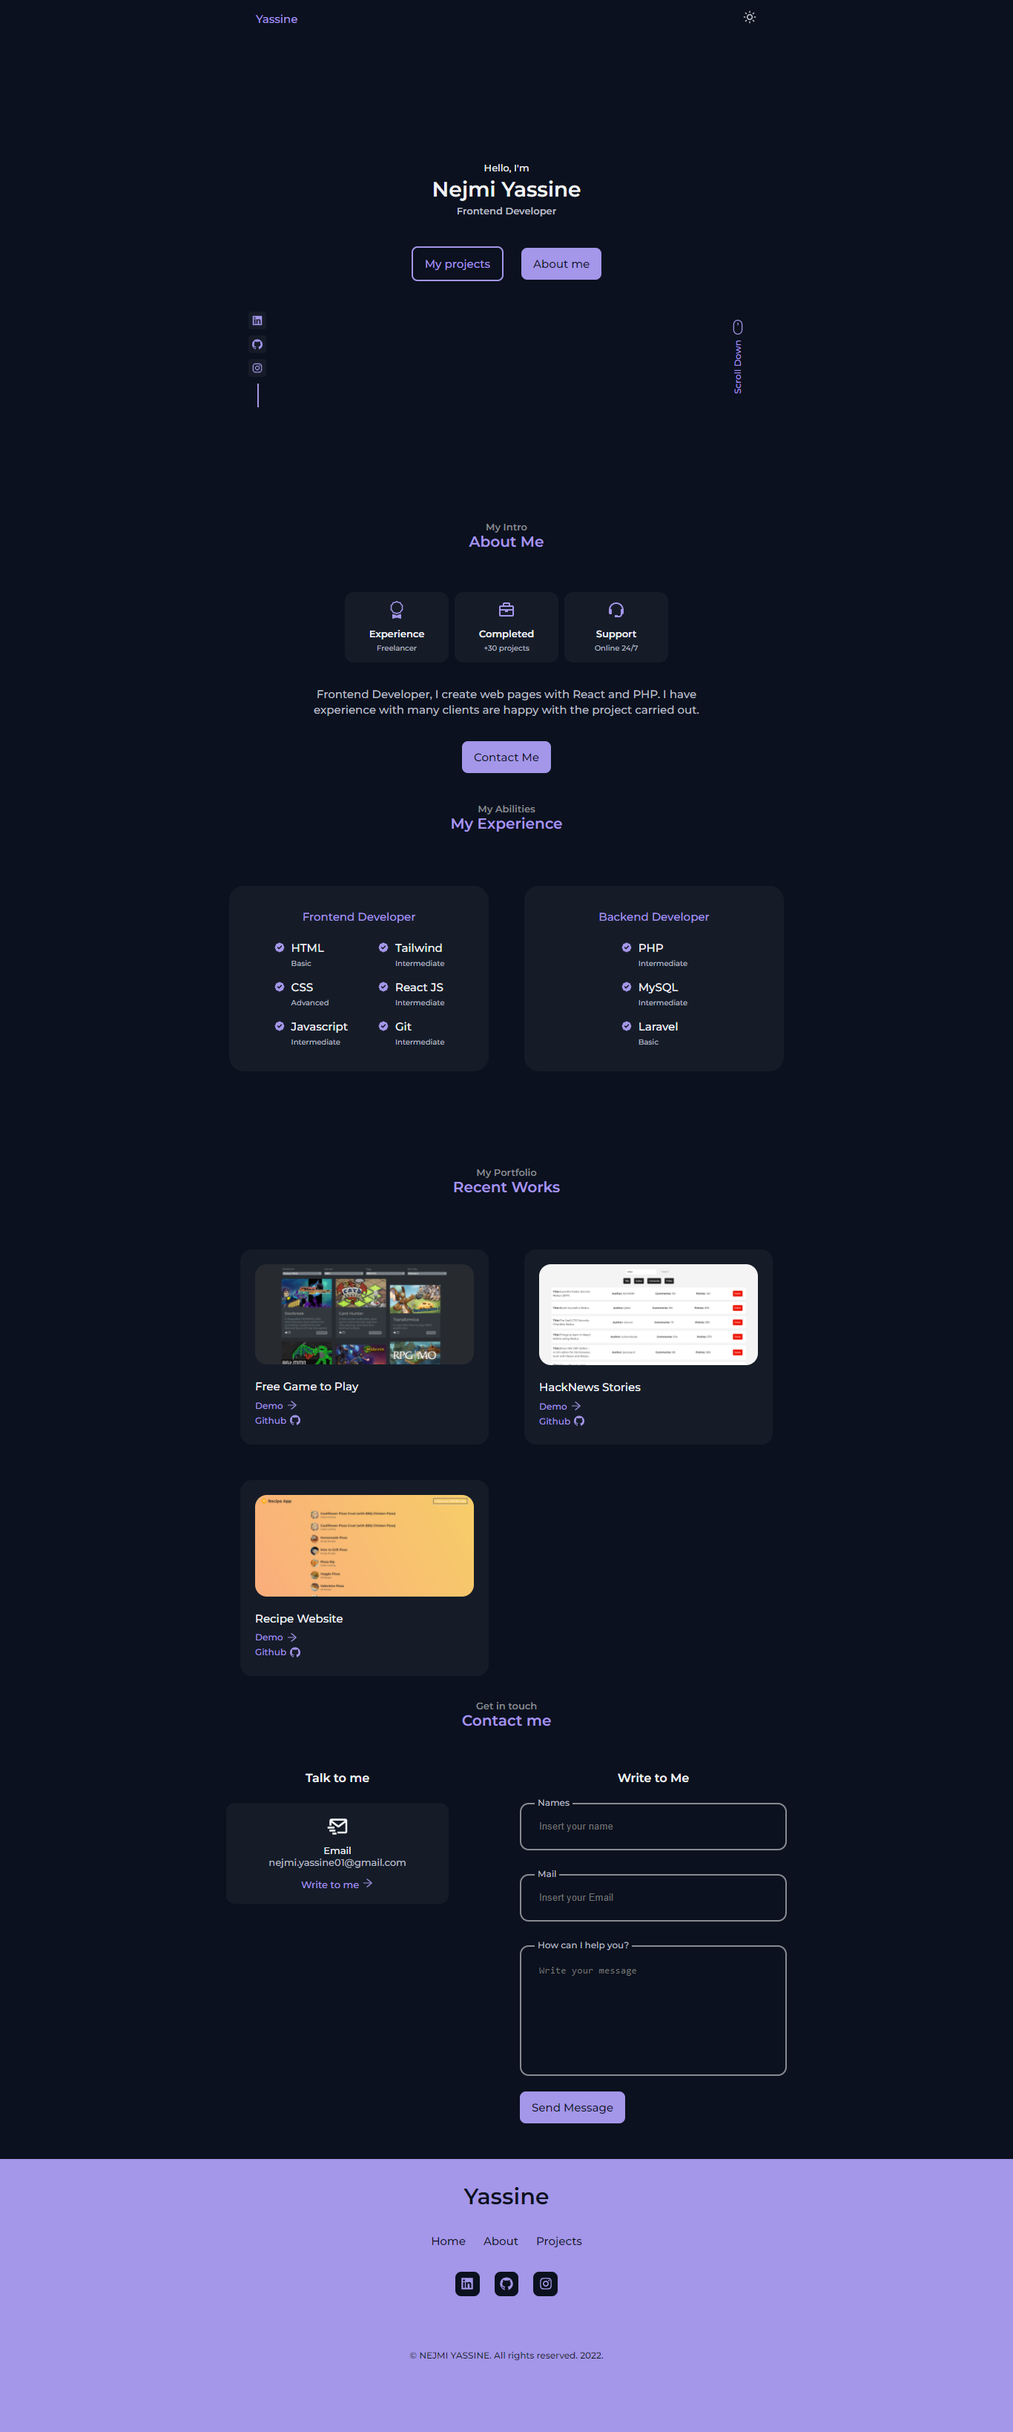
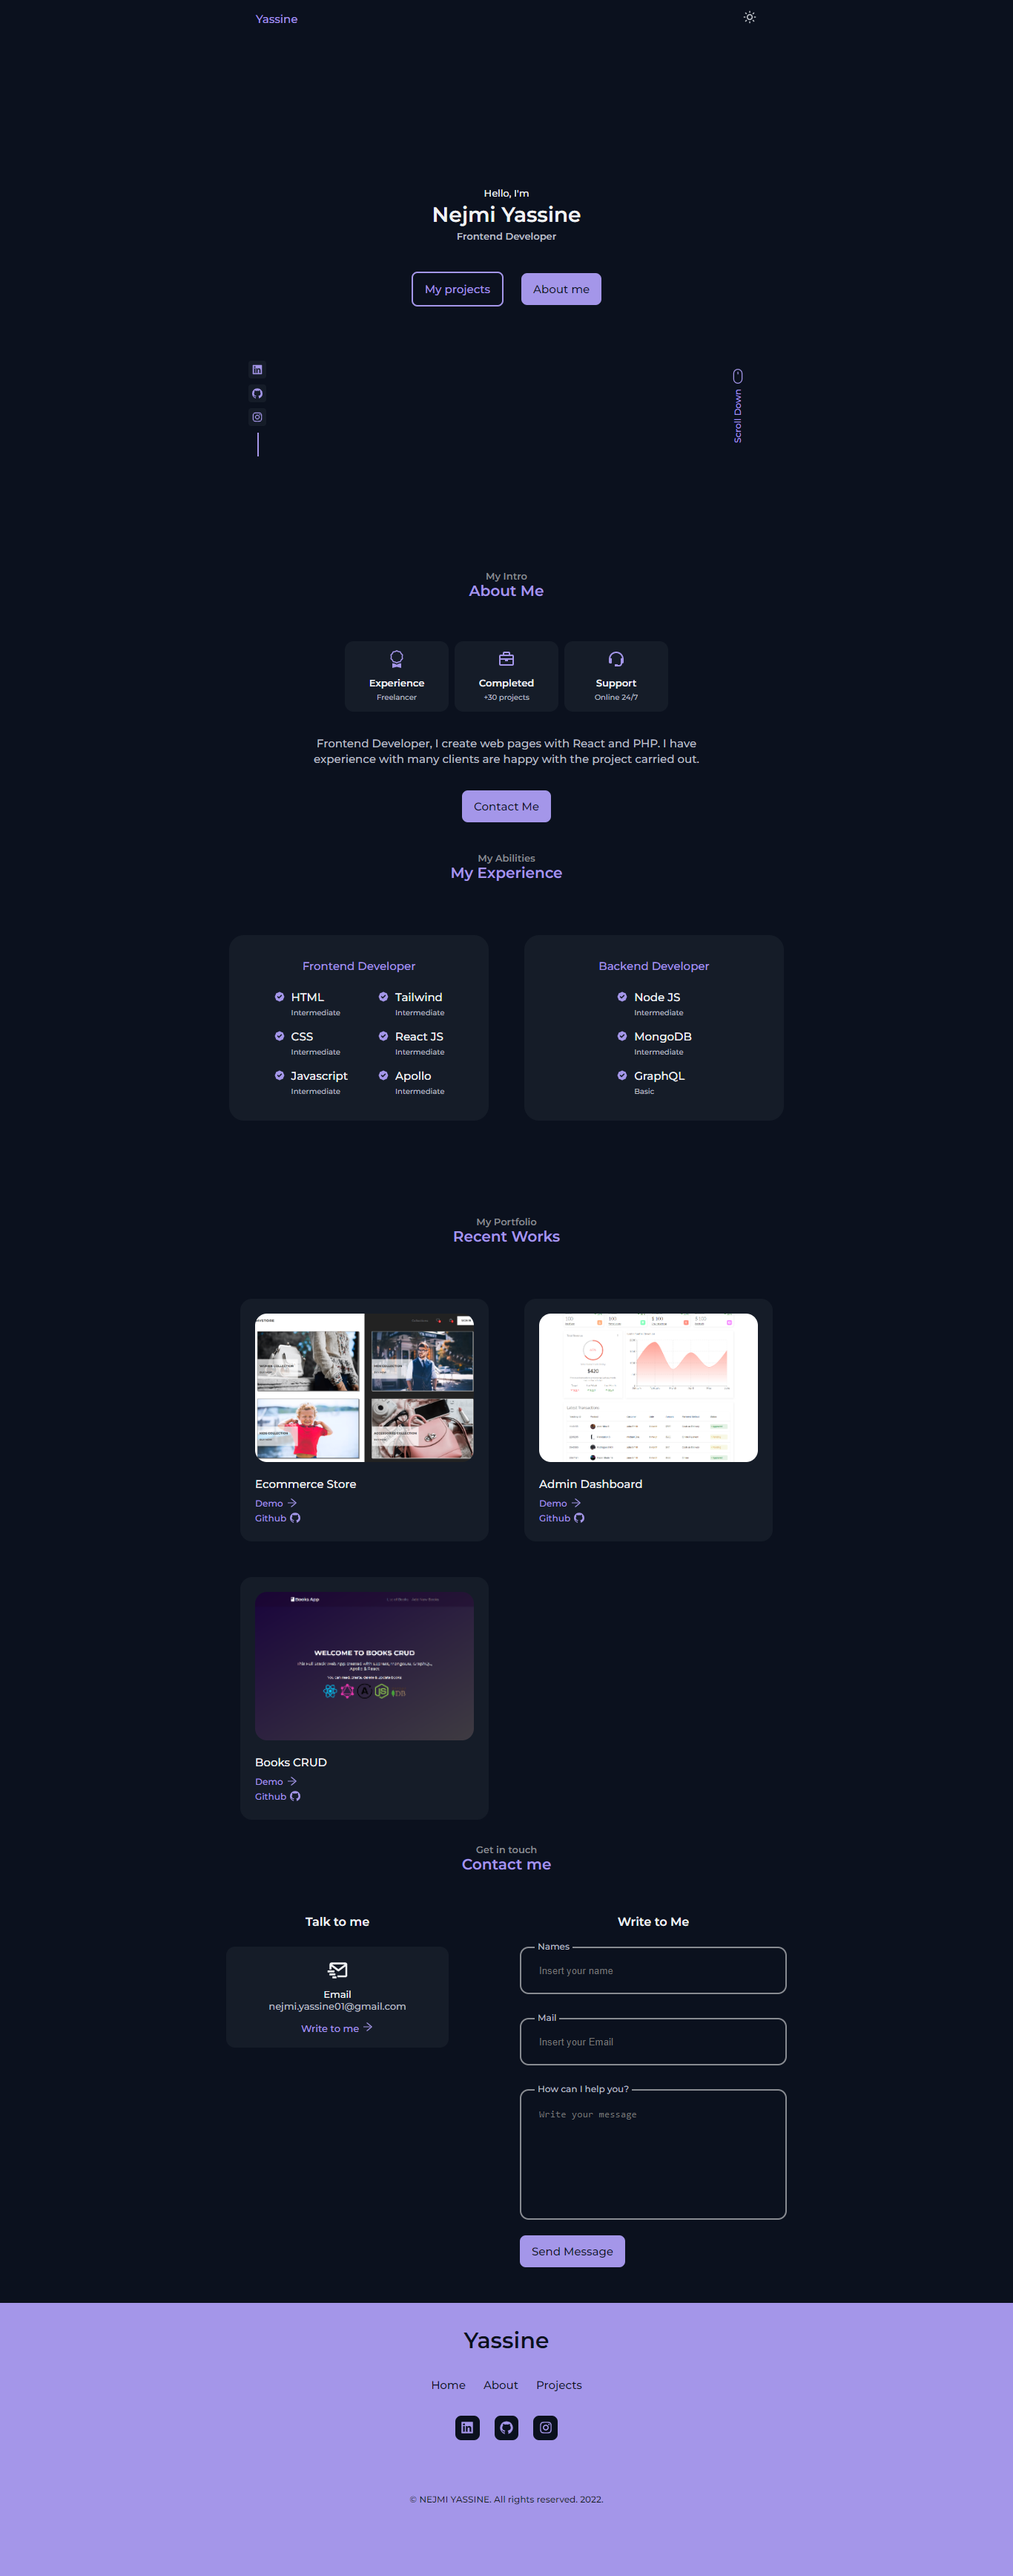
Update the projects and myskills on my portfolio

diff --git a/public/index.html b/public/index.html
@@ -5,25 +5,6 @@
     <link rel="icon" href="%PUBLIC_URL%/favicon.ico" />
     <meta name="viewport" content="width=device-width, initial-scale=1" />
     <meta name="theme-color" content="#000000" />
-    <meta
-      name="description"
-      content="Web site created using create-react-app"
-    />
-    <link rel="apple-touch-icon" href="%PUBLIC_URL%/logo192.png" />
-    <!--
-      manifest.json provides metadata used when your web app is installed on a
-      user's mobile device or desktop. See https://developers.google.com/web/fundamentals/web-app-manifest/
-    -->
-    <link rel="manifest" href="%PUBLIC_URL%/manifest.json" />
-    <!--
-      Notice the use of %PUBLIC_URL% in the tags above.
-      It will be replaced with the URL of the `public` folder during the build.
-      Only files inside the `public` folder can be referenced from the HTML.
-
-      Unlike "/favicon.ico" or "favicon.ico", "%PUBLIC_URL%/favicon.ico" will
-      work correctly both with client-side routing and a non-root public URL.
-      Learn how to configure a non-root public URL by running `npm run build`.
-    -->
     <link rel="preconnect" href="https://fonts.googleapis.com" />
     <link rel="preconnect" href="https://fonts.gstatic.com" crossorigin />
     <link
@@ -35,15 +16,5 @@
   <body>
     <noscript>You need to enable JavaScript to run this app.</noscript>
     <div id="root"></div>
-    <!--
-      This HTML file is a template.
-      If you open it directly in the browser, you will see an empty page.
-
-      You can add webfonts, meta tags, or analytics to this file.
-      The build step will place the bundled scripts into the <body> tag.
-
-      To begin the development, run `npm start` or `yarn start`.
-      To create a production bundle, use `npm run build` or `yarn build`.
-    -->
   </body>
 </html>

diff --git a/src/components/Skills/skillsData.js b/src/components/Skills/skillsData.js
@@ -5,13 +5,13 @@ export const frontEndSkillsData = [
     id: 1,
     icon: <Hi.HiBadgeCheck />,
     name: 'HTML',
-    level: 'Basic',
+    level: 'Intermediate',
   },
   {
     id: 2,
     icon: <Hi.HiBadgeCheck />,
     name: 'CSS',
-    level: 'Advanced',
+    level: 'Intermediate',
   },
   {
     id: 3,
@@ -34,7 +34,7 @@ export const frontEndSkillsData = [
   {
     id: 6,
     icon: <Hi.HiBadgeCheck />,
-    name: 'Git',
+    name: 'Apollo',
     level: 'Intermediate',
   },
 ];
@@ -43,19 +43,19 @@ export const backEndSkillsData = [
   {
     id: 7,
     icon: <Hi.HiBadgeCheck />,
-    name: 'PHP',
+    name: 'Node JS',
     level: 'Intermediate',
   },
   {
     id: 8,
     icon: <Hi.HiBadgeCheck />,
-    name: 'MySQL',
+    name: 'MongoDB',
     level: 'Intermediate',
   },
   {
     id: 9,
     icon: <Hi.HiBadgeCheck />,
-    name: 'Laravel',
+    name: 'GraphQL',
     level: 'Basic',
   },
 ];

diff --git a/src/components/Works/worksData.js b/src/components/Works/worksData.js
@@ -1,4 +1,6 @@
 import Ecommerce from '../../assets/Ecommerce.png';
+import Dashboard from '../../assets/Dashboard.png';
+import BooksCRUD from '../../assets/BooksCRUD.png';
 
 export const worksData = [
   {
@@ -8,5 +10,21 @@ export const worksData = [
     alt: 'ecommerce-store',
     githubLink: 'https://github.com/LetsCode20/ecom',
     demoLink: 'https://ecom-store.netlify.app/',
+  },
+  {
+    id: 2,
+    img: Dashboard,
+    title: 'Admin Dashboard',
+    alt: 'admin-dashboard',
+    githubLink: 'https://github.com/LetsCode20/react-dashboard',
+    demoLink: 'https://admin-dashboard-react1.netlify.app/',
+  },
+  {
+    id: 3,
+    img: BooksCRUD,
+    title: 'Books CRUD',
+    alt: 'books-crud',
+    githubLink: 'https://github.com/LetsCode20/book-crud/',
+    demoLink: 'https://github.com/LetsCode20/book-crud/',
   },
 ];

diff --git a/src/components/WorkCard/WorkCardContainer.style.js b/src/components/WorkCard/WorkCardContainer.style.js
@@ -19,6 +19,10 @@ export const WorkCard = styled.div`
 export const WorkImg = styled.img`
   border-radius: 1rem;
   margin-bottom: 0.75rem;
+  height: 200px;
+  max-width: 295px;
+  width: 100%;
+  object-fit: cover;
 
   @media (min-width: ${breakpoints.mobile}) {
     width: 295px;
